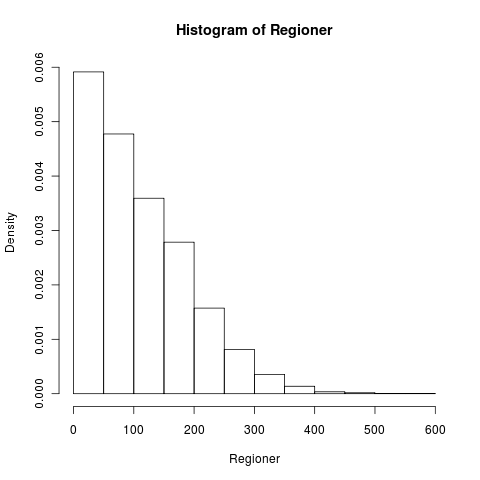
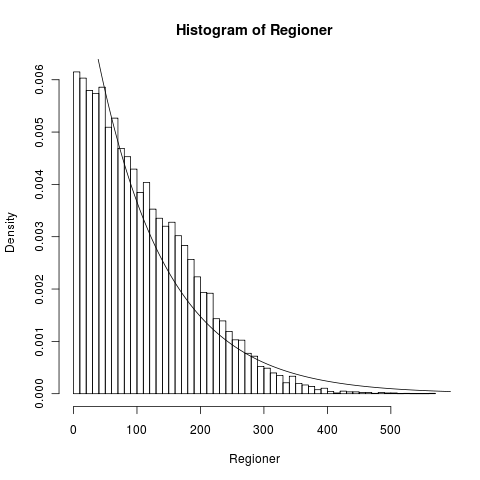
Omformuleret hypoteser og lavet noget graf-analyse på antal regioner

diff --git a/doc/rapport/afsnit/resultater/hypoteser.tex b/doc/rapport/afsnit/resultater/hypoteser.tex
@@ -1,169 +1,66 @@
 {
-{\sffamily Vi vil i det følgende præsentere de hypoteser, som vi, på
-baggrund af resultaterne af den efterfølgende analyse på vores datasæt,
-vil forsøge at verificere. De fleste af hypoteserne antager den
-generelle opfattelse, at det gyldne snit er specielt æstetisk tiltalende
-og af denne grund, er meget brugt i malerkunsten. Sidst i afsnittet vil
-vi kaste et kritisk blik på vores datasæt, for at se på hvad vi kan
-forvente af vores analyse.
+{\sffamily Det er meget svært at kvantificere, hvorvidt det gyldne snit
+bliver brugt i malerkunsten, men vi kan opstille nogle hypoteser for,
+hvilke resultater vi ville forvente, hvis det gyldne snit bliver brugt.
+De følgende hypoteser antager derfor den generelle opfattelse, at det
+gyldne snit er specielt æstetisk tiltalende.
 }
 
 \begin{hypotese}
-    Hvis det gyldne snit er meget brugt i malerkunsten, må vi have, at
-    over halvdelen, af de analyserede malerier, har én eller flere
+    Mere end $50\%$ af de analyserede malerier, har én eller flere
     regioner liggende i det gyldne snit.
-\end{hypotese}
-
-\emph{eller}
-
-\begin{hypotese}
-    I en analyse på et stort antal malerier, vil over halvdelen af disse
-    have mindst én region i det gyldne snit, da det gyldne snit bliver
-    brugt meget i malerkunsten.
-\end{hypotese}
-
-\emph{eller}
-
-\begin{hypotese}
-    Det gyldne snit er meget brugt i malerkunsten, da over halvdelen, af
-    de analyserede malerier, har én eller flere regioner liggende i det
-    gyldne snit.
     \label{hypo_binaer}
 \end{hypotese}
 
-\hrule
-
 \begin{hypotese}
-    Hvis et gyldent snit er specielt æstetisk tiltalende, må vi have, at
-    antallet af regioner liggende hvert af de fire snit, som kan
+    Antallet af regioner liggende hvert af de fire snit, som kan
     betragtes som gyldne, ikke afviger mere end $\pm10\%$ fra hinanden.
 \end{hypotese}
 
-\emph{eller}
-
 \begin{hypotese}
-    Et gyldent snit er specielt æstetisk tiltalende, da antallet af
-    regioner, liggende i hvert af de fire gyldne snit, ikke afviger med
-    mere end $\pm10\%$ fra hinanden.
-\end{hypotese}
-
-\hrule
-
-\begin{hypotese}
-    Hvis det gyldne rektangel er et specielt æstetisk tiltalende format,
-    må vi have, at mere end en tredjedel malerierne har et lærred, hvis
+    Vi må have, at mere end en tredjedel malerierne har et lærred, hvis
     dimensioner er lig $\varphi\pm2.4\%$.
-\end{hypotese}
-
-\emph{eller}
-
-\begin{hypotese}
-    Det gyldne rektangel er et specielt æstetisk tiltalende format,
-    fordi mere end en tredjedel af alle malerier, har et lærred, hvor
-    forholdet mellem dimensionerne  er lig $\varphi\pm2.4\%$.
     \label{hypo_golden_ractangle}
 \end{hypotese}
 
-\hrule
-
 \begin{hypotese}
-    Hvis det gyldne snit er bevidst brugt af kunstneren, må vi have, at
-    antallet regioner liggende i det gyldne snit, er skarpt større, end
+    Antallet regioner liggende i det gyldne snit, er skarpt større, end
     antallet af regioner liggende i snittet ved to tredjedele.
+    \label{hypototredjedele}
 \end{hypotese}
 
-\emph{eller}
-
 \begin{hypotese}
-    Det gyldne snit bruges bevidst af kunstnere, da der findes flere
-    regioner i det gyldne snit, end i snittet ved to tredjedele.
-	\label{hypototredjedele}
-\end{hypotese}
-
-\hrule
-
-\begin{hypotese}
-    Hvis det gyldne snit er meget brug i malerkunsten, må vi have, at
-    antallet af detekterede regioner i det gyldne snit, er skarpt
+    Antallet af detekterede regioner i det gyldne snit, er skarpt
     større, end antallet i alle andre snit.
+    \label{hypoethvertandetsnit}
 \end{hypotese}
 
-\emph{eller}
-
 \begin{hypotese}
-    Det gyldne snit er meget brugt i malerkunsten, fordi der findes
-    flere regioner i det gyldne snit end antallet af regioner liggende i
-    ethvert andet snit.
-	\label{hypoethvertandetsnit}
-\end{hypotese}
-
-\hrule
-
-\begin{hypotese}
-    Hvis det gyldne snit er bevidst brugt af kunstneren, må vi have, at
-    antallet regioner liggende i det gyldne snit, er skarpt større, end
+    Antallet regioner liggende i det gyldne snit, er skarpt større, end
     antallet af regioner liggende det midterste snit.
+    \label{hypomidten}
 \end{hypotese}
 
-\emph{eller}
-
 \begin{hypotese}
-    Det gyldne snit bruges bevidst af kunstnere, da der findes flere
-    regioner liggende i det gyldne snit end antallet af regioner
-    liggende i det midterste snit.
-	\label{hypomidten}
-\end{hypotese}
-
-\hrule
-
-\begin{hypotese}
-    Hvis det gyldne snit altid har været specielt æstetisk tiltalende,
-    må vi have, at antallet af regioner liggende i det gyldne snit,
+    Vi må have, at antallet af regioner liggende i det gyldne snit,
     tidsperioder imellem, højest kan afvige med $\pm10\%$.
 \end{hypotese}
 
-\emph{eller}
-
 \begin{hypotese}
-    Det gyldne snit har altid været lige meget brugt i malerkunsten, fordi
-    antallet af regioner i det gyldne snit, tidsperioder imellem, kun
-    afviger med $\pm10\%$.
+    Antallet af regioner liggende i det gyldne snit, nationaliteter
+    imellem, højest kan afvige med $\pm10\%$.
 \end{hypotese}
 
-\hrule
-
 \begin{hypotese}
-    Hvis det gyldne snit er ligeså  æstetisk tiltalende for alle,
-    må vi have, at antallet af regioner liggende i det gyldne snit,
-    nationaliteter imellem, højest kan afvige med $\pm10\%$.
+    Antallet af regioner liggende i det gyldne snit, afviger ikke fra
+    antallet af regioner i snittet ved to tredjedele, med mere end
+    $15\%$.
 \end{hypotese}
 
-\emph{eller}
-
-\begin{hypotese}
-    Det gyldne snit er lige æstetisk tiltalende for alle, fordi antallet
-    af regioner liggende i det gyldne snit, nationaliteter imellem, kun
-    afviger med $\pm10\%$.
-\end{hypotese}
-
-\hrule
-
-\begin{hypotese}
-    Hvis det gyldne snit er specielt æstetisk tiltalende, og vi har at
-    \emph{the rule of thirds} bliver brugt i malerkunsten, som en
-    approksimation til det gyldne snit, må vi have, at antallet af
-    regioner liggende i det gyldne snit ikke angiver fra antallet af
-    regioner i to tredjedele med mere end $15\%$.
-\end{hypotese}
-
-\emph{eller}
-
-\begin{hypotese}
-    \emph{The Rule of Thirds} bliver brugt i malerkunsten som en
-    approksimation til det gyldne snit, fordi antallet af regioner, som
-    findes i det gyldne snit, ikke afviger med mere end $\pm15\%$ fra
-    antallet af regioner, som findes i snittet ved to tredjedele.
-\end{hypotese}
+Ovenstående samling af hypoteser kan give os et billede af, hvorvidt det
+gyldne snit kunne være brugt, når vi analyserer et datasæt. Vi vil
+derfor kaste et blik på hvilke malerier vi har til rådighed i vores
+kørsel.
 
 \subsection{Datasæt}
 Det korpus, vi kører vores analyse på, består af billeder hentet fra

diff --git a/doc/rapport/afsnit/resultater/naiv.tex b/doc/rapport/afsnit/resultater/naiv.tex
@@ -103,12 +103,66 @@ dette interval. Vi kan således ikke bekræfte hypotese
     \label{tabel_real_dimensions}
 \end{table}
 
+\subsubsection{Antallet af fundne regioner over alle snit}
+I alle $14,375$ malerier er der i alt fundet $1,578,611$ interessante
+regioner, med en middelværdi på $109.82$, en standardafvigelse på
+$83.21$ og et $95\%$-konfidensinterval på $[108.46, 111.18]$. I figur
+\ref{total_regions_plots} er vist nogle plots over hvordan antallet af
+regioner fordeler sig i malerierne. Figurene viser, at antallet af
+fundne regioner ikke er normalfordelt, hvilket havde været forventet.
+I figur \ref{graf_total_regions_zoom}, hvor der ses bort fra et stort
+antal billeder uden nogen regioner, har vi en fordeling der kunne ligne
+den eksponentielle normalfordeling, men en logaritmisk transformation af
+data, giver ikke en normalfordeling. Dette vises også i de to QQ-plots i
+figur \ref{qq_plots}, hvor punkterne ikke følger en ret linje, som de
+burde, hvis vi havde en normalfordeling.
+
+Tallene kunne dog godt ligne en eksponentialfordeling, hvorfor vi i
+figur \ref{hist_total_regions} har tegnet en sådan, hvor $\lambda =
+\frac{1}{109.82}$. Fordelingen nærmer sig de observerede værdier, men
+den teoretiske fordeling ligger et stykke under vores værdier.
+
 \begin{figure}[!h]
     \centering
-    \includegraphics[width=0.9\textwidth]{afsnit/resultater/billeder/totalregions}
-    \caption[]{Plot som viser hvor mange malerier, hvori der er fundet
-    et vist antal interessante regioner over alle snit i billedet.}
-    \label{graf_total_regions}
+    \subfloat{
+        \includegraphics[width=0.49\textwidth]{afsnit/resultater/billeder/totalregions_var}
+        \label{graf_total_regions_var}
+    }
+    \subfloat[]{
+        \includegraphics[width=0.49\textwidth]{afsnit/resultater/billeder/totalregions}
+        \label{graf_total_regions_zoom}
+    }
+    \caption[]{Fordelingen af fundne regioner på malerier.
+    \textbf{\ref{graf_total_regions_var}:} Plot som viser hvor mange
+    malerier, hvori der er fundet et vist antal interessante regioner
+    over alle snit i billedet.  \textbf{\ref{graf_total_regions_zoom}:}
+    Samme plot som i figur \ref{graf_total_regions_var}, men hvor antal
+    billeder uden regioner ikke er vist.}
+    \label{total_regions_plots}
+\end{figure}
+
+\begin{figure}[!h]
+    \centering
+    \subfloat{
+        \includegraphics[width=0.49\textwidth]{afsnit/resultater/billeder/qq_totalregions}
+        \label{qq_totalregions}
+    }
+    \subfloat[]{
+        \includegraphics[width=0.49\textwidth]{afsnit/resultater/billeder/qq_log_totalregions}
+        \label{qq_log_totalregions}
+    }\\
+    \subfloat[]{
+        \includegraphics[width=0.62\textwidth]{afsnit/resultater/billeder/hist_totalregions}
+        \label{hist_total_regions}
+    }
+    \caption[]{QQ-plots som ikke viser tegn på en normalfordeling af
+    fundne regioner. \textbf{\ref{qq_totalregions}:} QQ-plot af antal
+    billeder med én eller flere regioner.
+    \textbf{\ref{qq_log_totalregions}:} Samme plot som i figur
+    \ref{qq_totalregions}, men data er logaritmisk transformeret.
+    \textbf{\ref{hist_total_regions}:} Histogram over antal fundne
+    regioner med en eksponentialfordeling tegnet.}
+    \label{qq_plots}
 \end{figure}
 
 }
